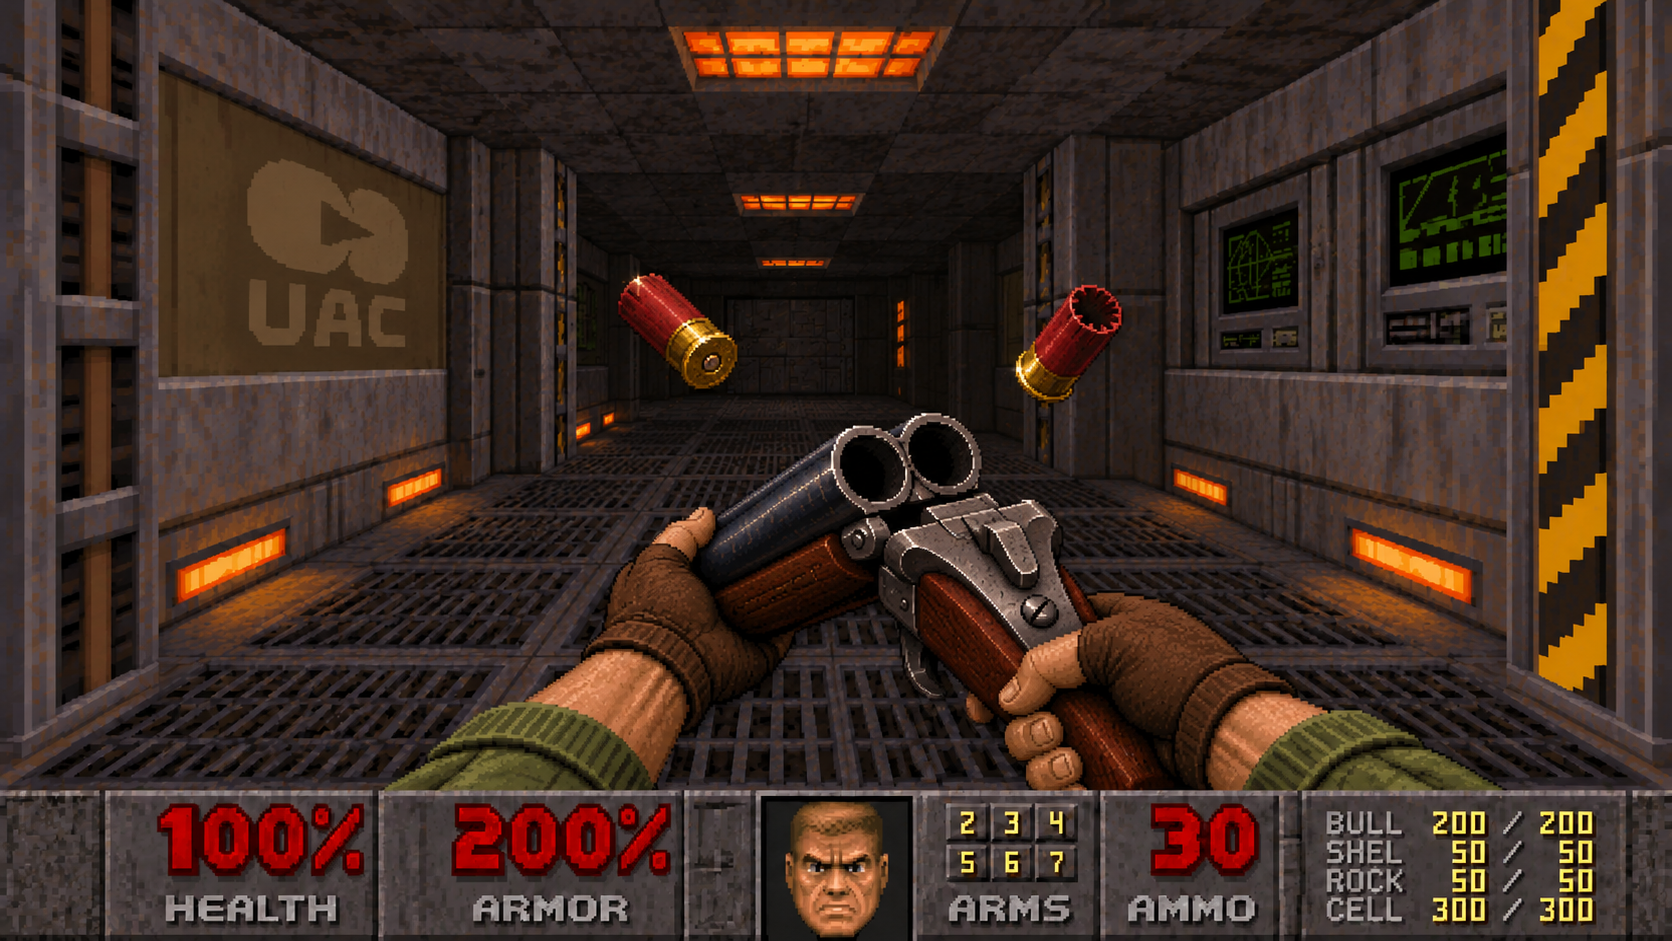
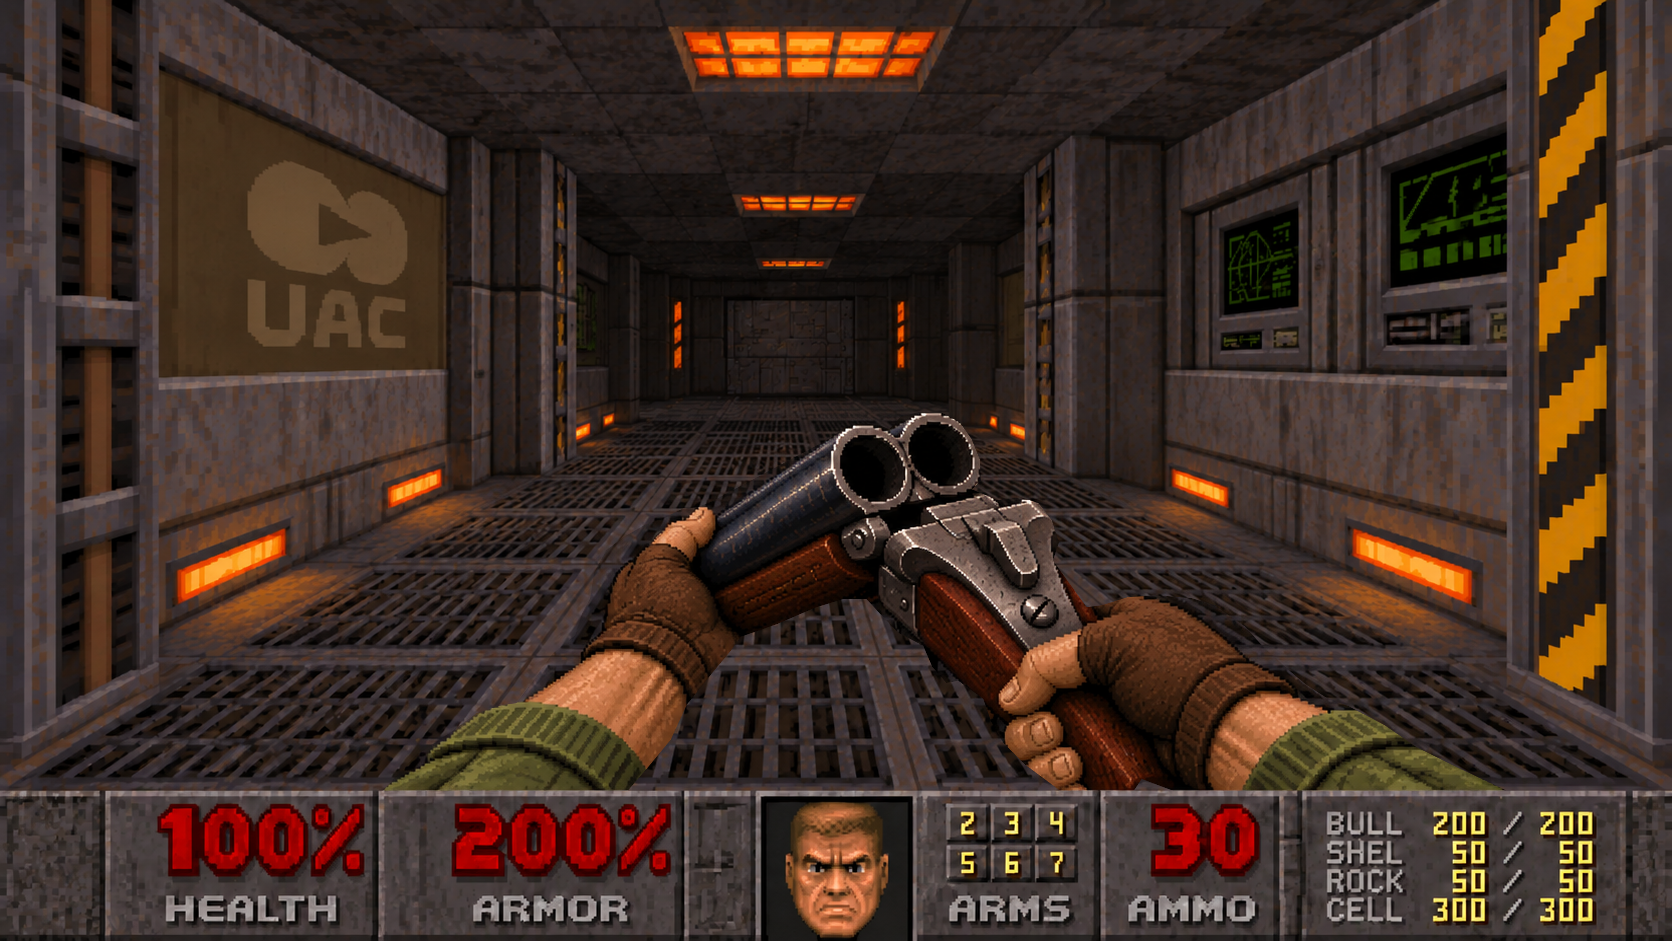
EOD 0.8.19: the Coach Gun's full painted reload

diff --git a/EOD/editor.html b/EOD/editor.html
@@ -197,7 +197,7 @@ a.brand{color:var(--text);text-decoration:none}
 <script id="nsde-main">
 'use strict';
 /* EOD · Editor of Doom (engine from No Shit Doom Editor) — Pulse Labs Studio */
-const VERSION = '0.8.18', VC = 38;
+const VERSION = '0.8.19', VC = 39;
 const ORIGINAL_HTML = '<!DOCTYPE html>\n' + document.documentElement.outerHTML;
 const $ = s => document.querySelector(s);
 const clamp = (v, a, b) => v < a ? a : v > b ? b : v;
@@ -4193,10 +4193,9 @@ function drawPaintedWeapon(g, W, H, art, d, bx, by) {
   const reloading = p.reloadT > 0 && !p.reloadDelay && p.reloadW === p.w && p.reload0;
   if (reloading) {
     k = 1 - p.reloadT / p.reload0; const R = A.reload || [];
-    if (R.length >= 2) {
-      if (k < 0.12) { rot = -0.10 * ease(k / 0.12); lift = -10 * ease(k / 0.12); }
-      else if (k < 0.5) f = art.frames[R[0]] || f;
-      else if (k < 0.86) f = art.frames[R[1]] || f;
+    if (R.length >= 2) { // painted reload frames spread over the middle of the reload (weights in reloadW)
+      if (k < 0.1) { rot = -0.10 * ease(k / 0.1); lift = -10 * ease(k / 0.1); }
+      else if (k < 0.86) { const Wt = A.reloadW || R.map(() => 1), tot = Wt.reduce((a, b) => a + b, 0); let acc = 0, u = (k - 0.1) / 0.76 * tot, i = 0; while (i < R.length - 1 && u >= acc + Wt[i]) acc += Wt[i++]; f = art.frames[R[i]] || f; p.reloadSeg = i; }
       else { const t = ease((k - 0.86) / 0.14); rot = -0.22 * (1 - t); lift = -14 * (1 - t); }
     } else { const t = Math.sin(Math.min(1, k) * Math.PI); lift = 70 * t; rot = 0.25 * t; } // no painted reload yet: dip down and back
   }
@@ -4226,8 +4225,14 @@ function drawPaintedWeapon(g, W, H, art, d, bx, by) {
     if (A.eject && !p.casingOut) { p.casingOut = true; const ex = cx + (-dw / 2 + A.eject[0] * dw), ey = yb - dh + A.eject[1] * dh; (G.shells = G.shells || []).push({ x: ex, y: ey, vx: (6 + Math.random() * 3) * s, vy: -(7 + Math.random() * 3) * s, rot: 0, vr: 0.4, len: 9 * s, t: 0, brass: 1 }); }
   }
   if (!kick) { p.casingOut = false; p.flashSeed = null; }
+  if (!reloading) p.reloadSeg = -1;
   g.restore();
   // break open: kick the two spent shells out of the chambers on the painted open frame
+  // painted shells: when the last painted shell frame ends, our shells carry on from where the painting left them and fall away
+  if (reloading && A.shellsOut && !p.ejected && p.reloadSeg >= (A.reload || []).length - 1) {
+    p.ejected = true; const fo = art.frames[(A.reload || [])[(A.reload || []).length - 2]] || f, odw = fo.w * sp, odh = fo.h * sp, ocx = W / 2 + fo.place.dx * sp + bx, oy = H - hh + by - fo.place.dy * sp - odh;
+    A.shellsOut.forEach(([sx, sy, dir]) => (G.shells = G.shells || []).push({ x: ocx - odw / 2 + sx * odw, y: oy + sy * odh, vx: dir * (4 + Math.random() * 2) * s, vy: -(2 + Math.random() * 2) * s, rot: dir * 0.6, vr: dir * (0.2 + Math.random() * 0.15), len: 0.09 * odw, t: 0 }));
+  }
   if (reloading && A.bores && k >= 0.2 && !p.ejected) {
     p.ejected = true; const fo = art.frames[(A.reload || [1])[0]] || f, odw = fo.w * sp, odh = fo.h * sp, ocx = W / 2 + fo.place.dx * sp + bx, oy = H - hh + by - fo.place.dy * sp - odh;
     A.bores.forEach(([bx2, by2], i) => { const x = ocx - odw / 2 + bx2 * odw, y = oy + by2 * odh, dir = i ? 1 : -1, r = (A.boreR || 0.035) * odw;

diff --git a/EOD/engine/src/17_weapons.js b/EOD/engine/src/17_weapons.js
@@ -172,10 +172,9 @@ function drawPaintedWeapon(g, W, H, art, d, bx, by) {
   const reloading = p.reloadT > 0 && !p.reloadDelay && p.reloadW === p.w && p.reload0;
   if (reloading) {
     k = 1 - p.reloadT / p.reload0; const R = A.reload || [];
-    if (R.length >= 2) {
-      if (k < 0.12) { rot = -0.10 * ease(k / 0.12); lift = -10 * ease(k / 0.12); }
-      else if (k < 0.5) f = art.frames[R[0]] || f;
-      else if (k < 0.86) f = art.frames[R[1]] || f;
+    if (R.length >= 2) { // painted reload frames spread over the middle of the reload (weights in reloadW)
+      if (k < 0.1) { rot = -0.10 * ease(k / 0.1); lift = -10 * ease(k / 0.1); }
+      else if (k < 0.86) { const Wt = A.reloadW || R.map(() => 1), tot = Wt.reduce((a, b) => a + b, 0); let acc = 0, u = (k - 0.1) / 0.76 * tot, i = 0; while (i < R.length - 1 && u >= acc + Wt[i]) acc += Wt[i++]; f = art.frames[R[i]] || f; p.reloadSeg = i; }
       else { const t = ease((k - 0.86) / 0.14); rot = -0.22 * (1 - t); lift = -14 * (1 - t); }
     } else { const t = Math.sin(Math.min(1, k) * Math.PI); lift = 70 * t; rot = 0.25 * t; } // no painted reload yet: dip down and back
   }
@@ -205,8 +204,14 @@ function drawPaintedWeapon(g, W, H, art, d, bx, by) {
     if (A.eject && !p.casingOut) { p.casingOut = true; const ex = cx + (-dw / 2 + A.eject[0] * dw), ey = yb - dh + A.eject[1] * dh; (G.shells = G.shells || []).push({ x: ex, y: ey, vx: (6 + Math.random() * 3) * s, vy: -(7 + Math.random() * 3) * s, rot: 0, vr: 0.4, len: 9 * s, t: 0, brass: 1 }); }
   }
   if (!kick) { p.casingOut = false; p.flashSeed = null; }
+  if (!reloading) p.reloadSeg = -1;
   g.restore();
   // break open: kick the two spent shells out of the chambers on the painted open frame
+  // painted shells: when the last painted shell frame ends, our shells carry on from where the painting left them and fall away
+  if (reloading && A.shellsOut && !p.ejected && p.reloadSeg >= (A.reload || []).length - 1) {
+    p.ejected = true; const fo = art.frames[(A.reload || [])[(A.reload || []).length - 2]] || f, odw = fo.w * sp, odh = fo.h * sp, ocx = W / 2 + fo.place.dx * sp + bx, oy = H - hh + by - fo.place.dy * sp - odh;
+    A.shellsOut.forEach(([sx, sy, dir]) => (G.shells = G.shells || []).push({ x: ocx - odw / 2 + sx * odw, y: oy + sy * odh, vx: dir * (4 + Math.random() * 2) * s, vy: -(2 + Math.random() * 2) * s, rot: dir * 0.6, vr: dir * (0.2 + Math.random() * 0.15), len: 0.09 * odw, t: 0 }));
+  }
   if (reloading && A.bores && k >= 0.2 && !p.ejected) {
     p.ejected = true; const fo = art.frames[(A.reload || [1])[0]] || f, odw = fo.w * sp, odh = fo.h * sp, ocx = W / 2 + fo.place.dx * sp + bx, oy = H - hh + by - fo.place.dy * sp - odh;
     A.bores.forEach(([bx2, by2], i) => { const x = ocx - odw / 2 + bx2 * odw, y = oy + by2 * odh, dir = i ? 1 : -1, r = (A.boreR || 0.035) * odw;

diff --git a/EOD/engine/src/01_core.js b/EOD/engine/src/01_core.js
@@ -1,6 +1,6 @@
 'use strict';
 /* EOD · Editor of Doom (engine from No Shit Doom Editor) — Pulse Labs Studio */
-const VERSION = '0.8.18', VC = 38;
+const VERSION = '0.8.19', VC = 39;
 const ORIGINAL_HTML = '<!DOCTYPE html>\n' + document.documentElement.outerHTML;
 const $ = s => document.querySelector(s);
 const clamp = (v, a, b) => v < a ? a : v > b ? b : v;

diff --git a/EOD/assets/config.js b/EOD/assets/config.js
@@ -6,5 +6,5 @@ window.EOD_CONFIG = {
   SUPABASE_URL: '',
   SUPABASE_ANON_KEY: '',
   SITE_NAME: 'EOD · Editor of Doom',
-  VERSION: '0.8.18'
+  VERSION: '0.8.19'
 };

diff --git a/EOD/tools/cut_weapon.py b/EOD/tools/cut_weapon.py
@@ -38,7 +38,7 @@ def key_out(im, tol=60, soft=40):
     return np.dstack([rgb.astype(np.uint8), (alpha * 255).astype(np.uint8)])
 
 
-def plate_out(im, plate, tol=22, soft=30):
+def plate_out(im, plate, tol=28, soft=30, keep_floating=False):
     from scipy import ndimage as nd
     a = np.asarray(im.convert('RGB')).astype(np.int32); b = np.asarray(plate.convert('RGB').resize(im.size)).astype(np.int32)
     d = np.abs(a - b).max(2)
@@ -47,7 +47,9 @@ def plate_out(im, plate, tol=22, soft=30):
     m = nd.binary_opening(m, iterations=2)
     # the gun and arms come up from the bottom of the screen: keep only what touches the bottom edge
     # (drops background flicker, stray grate bits and loose flying shells, which the game animates itself)
-    lab, n = nd.label(m); bottom = set(np.unique(lab[-3:])) - {0}; m = np.isin(lab, list(bottom))
+    lab, n = nd.label(m)
+    if keep_floating: sz = nd.sum(m, lab, range(1, n + 1)); m = np.isin(lab, 1 + np.where(sz > 800)[0])
+    else: bottom = set(np.unique(lab[-3:])) - {0}; m = np.isin(lab, list(bottom))
     m = nd.binary_fill_holes(m)
     alpha = np.where(m, np.clip((d - tol) / soft + 0.6, 0, 1), 0)
     alpha = np.where(nd.binary_erosion(m, iterations=1), 1.0, alpha)
@@ -61,6 +63,7 @@ def main():
     ap.add_argument('--bar', action='store_true', help='painting includes a status bar at the bottom: cut it off')
     ap.add_argument('--out', default=str(Path(__file__).resolve().parents[1] / 'res' / 'art'))
     ap.add_argument('--name', default=None)
+    ap.add_argument('--floating', action='store_true', help='plate mode: keep loose parts too (flying shells)')
     ap.add_argument('--cls', default='repeater', help='weapon class for the editor (shotgun, repeater, launcher...)')
     ap.add_argument('--plate', default=None, help='the same scene with no gun or hands in it')
     ap.add_argument('--tol', type=int, default=28, help='plate mode: how different a pixel must be to count as gun (lower keeps dark-on-dark parts, higher drops shadows)')
@@ -75,7 +78,7 @@ def main():
         if o.bar:
             im = im.crop((0, 0, W, int(H * 0.84))); H = im.size[1]
             if plate: plate = plate.resize((W, round(plate.size[1] * W / plate.size[0]))).crop((0, 0, W, H))
-        rgba = plate_out(im, plate, o.tol) if plate else key_out(im)
+        rgba = plate_out(im, plate, tol=o.tol, keep_floating=o.floating) if plate else key_out(im)
         ys, xs = np.where(rgba[..., 3] > 16)
         x0, x1, y0, y1 = xs.min(), xs.max() + 1, ys.min(), ys.max() + 1
         s = basis / W

diff --git a/EOD/docs/PROJECT_OVERVIEW.md b/EOD/docs/PROJECT_OVERVIEW.md
@@ -1,6 +1,6 @@
 # EOD · Editor of Doom — Project Overview
 
-**Owner:** Pulse Labs Studio · **Version:** 0.8.18 · **Started:** 2026-11-16 · **Repo:** `editor-of-doom` (GitHub Pages)
+**Owner:** Pulse Labs Studio · **Version:** 0.8.19 · **Started:** 2026-11-16 · **Repo:** `editor-of-doom` (GitHub Pages)
 
 ## Goal
 A free, open web home for classic Doom mapping: an editor that feels like Ultimate Doom Builder, one-tap play on any device and input (touch, keyboard+mouse, Xbox/standard controllers), and a community map library + forums. Nothing like this existed when we checked (Nov 2026): DoomScroll plays WADs in a browser but has no editor or accounts; web editors (JZBuilder, WAD.js) are prototypes; SnapMap (Doom 2016) had the share/remix loop but only inside that game.
@@ -12,7 +12,7 @@ A free, open web home for classic Doom mapping: an editor that feels like Ultima
 - **Database** (`supabase/schema.sql`): profiles, maps (+ allow_remix, allow_download, preview, plays, score), map_versions (auto, last 20), votes (score trigger), forum_categories, threads, posts, reports. Row-level security: anyone reads public content; members write only their own; admins moderate. Posting and map creation are rate-limited in the database.
 - **Game HUD** (`23_statusbar.js`): the classic Doom status bar drawn from Freedoom's ST* lumps (in `res/freedoom-res.wad.gz`): numbers, arms, keys, ammo table and the marine face (STF*: 5 hurt levels × straight/left/right, ouch, evil grin, rampage, god, dead). `hudHeight()` tells the weapon sprite and automap where the bar starts. Settings: Classic / Compact / Slim.
 - **Demo maps** (`22_demomaps.js`): built in code. Horde options live on `M.start` (loadout, `hurt`, `power`, `waveAt`, `waveGap`); things with `wave: n` wait in `G.waveQ` and are released by `tickWaves()` in `09_game.js`.
-- **Painted weapons:** manifest entries with `painted: true` (`res/art/manifest.json`: `frames`, `place` [dx,dy per frame on a `basis`-wide screen], `reload` [frame indexes for open/load], `muzzle`, `bores`, `eject`, `fireFrame`, `recoilFrame`, `flash` + `flashW`, `smoke`). `artWepFrames` returns them as-is; `drawPaintedWeapon` (`17_weapons.js`) draws them, the procedural flash, casings and the painted reload. Cut with `tools/cut_weapon.py <id> frames… --plate empty.png --bar --hd --tol N --cls shotgun`. Weapon setting `mag`/`magReload` gives magazine reloads (`fireWeapon`).
+- **Painted weapons:** manifest entries with `painted: true` (`res/art/manifest.json`: `frames`, `place` [dx,dy per frame on a `basis`-wide screen], `reload` [frame indexes for open/load], `muzzle`, `bores`, `eject`, `fireFrame`, `recoilFrame`, `reloadW`, `shellsOut`, `flash` + `flashW`, `flashAlt`, `smoke`). `artWepFrames` returns them as-is; `drawPaintedWeapon` (`17_weapons.js`) draws them, the procedural flash, casings and the painted reload. Cut with `tools/cut_weapon.py <id> frames… --plate empty.png --bar --hd --tol N --cls shotgun`. Weapon setting `mag`/`magReload` gives magazine reloads (`fireWeapon`).
 - **Crash guard:** `gameFrame` writes `localStorage.eodAlive` every 70 tics; `exitGame` and `pagehide` clear it; `crashGuard()` in `11_boot.js` finds a leftover one, logs it and sets safe mode (`MT.failed`, detail capped at 1280). Glass crack maps carry a version `g.cmv`; `mtPost` sends `cm` only when it changed (`MT.glv`), the worker keeps them in `CMS`.
 - **Flash lighting:** `glowAt(x, y, amt)` (`09_game.js`) sets `sec.glow` on the sector and half on its neighbors; the light loop adds it on top of the sector's light and fades it by 10 a tic. Called by `fireWeapon`, `monsterAttack`, `explode` and flying projectiles. `S.flashLight === false` turns it off. Line special 35 shows the line's `msg` if it has one.
 - **Infighting:** `e.tgt` is the monster a monster is fighting (set in `damageMonster` when another monster hurts it); `tgtOf(e)` gives the current target (that monster or the player), `hurtTgt`, `monInPath` (hitscan shots hit the first monster in the way). Projectiles carry their shooter in `pr.by`; same-type projectiles don't hurt (Doom rule).

diff --git a/EOD/docs/CHANGELOG.md b/EOD/docs/CHANGELOG.md
@@ -10,6 +10,12 @@
 - Built-in node builder so exported WADs also run in Chrome/Chocolate Doom
 - Everything queued for the engine in No Shit Doom Editor (curve/grid drawing, blockmap speed-up, grates)
 
+## v0.8.19 (vc39) — 2026-11-22 — the Coach Gun's full painted reload
+- **The whole reload is painted now:** break open (clean frame), the two spent shells kicking out (two painted frames), then our shells carry on from exactly where the painting left them and tumble away, then the loading frame, then the snap shut. Sequence: fire → recoil + smoke → open → shells → shells → load → close.
+- Reload frames can be weighted (`reloadW`) and painted shells hand off to the game's falling shells (`shellsOut`).
+- Cutter tool: `--floating` keeps loose parts (flying shells) when cutting against the plate.
+- Checked: the full reload captured frame by frame; all demo maps and the Freedoom loader pass.
+
 ## v0.8.18 (vc38) — 2026-11-22 — the Coach Gun's final firing frame
 - **New firing frame:** the big spiky white-yellow star burst at both barrels ("ok he landed it") replaces the smaller burst.
 - **Carbine flash:** alternates between the two painted star bursts shot to shot.

diff --git a/EOD/docs/HISTORY.md b/EOD/docs/HISTORY.md
@@ -114,3 +114,4 @@ The story of how EOD came to be, in the owner's words where possible.
 - James got a firing frame with long flames from GPT ("i said it was too flamey"), then a pixel star burst on its own and a firing frame with a short star burst → 0.8.16: the short-burst frame is the Coach Gun's firing frame, the star burst is the Carbine's muzzle flash. His reaction to the burst frame: "dunno about it" (easy to swap).
 - James sent the recoil frame (frame 3, with smoke), a pixel smoke wisp and a sheet of photo-style muzzle flashes → 0.8.17: recoil frame and smoke wisp in; the photo flash sheet held out (style and source).
 - James, on GPT's firing frame with a big spiky star burst: *"ok he landed it"* → 0.8.18: that's the Coach Gun's firing frame; its star also joins the Carbine's flashes.
+- James sent the break-open frame without shells, two shells-flying frames and the loading frame again, and asked *"would you rather just the weapons in thier stages then the whole hallway?"* (answer: keep the hallway; the empty plate gives exact cuts and keeps placement) → 0.8.19: full painted reload.

diff --git a/docs/CHANGELOG.md b/docs/CHANGELOG.md
@@ -1,5 +1,8 @@
 # Changelog
 
+## v0.7.39 — 2026-11-22
+- EOD 0.8.19: the Coach Gun's full painted reload (open, shells out, load, close).
+
 ## v0.7.38 — 2026-11-22
 - EOD 0.8.18: final Coach Gun firing frame; Carbine flash alternates two painted stars.
 
